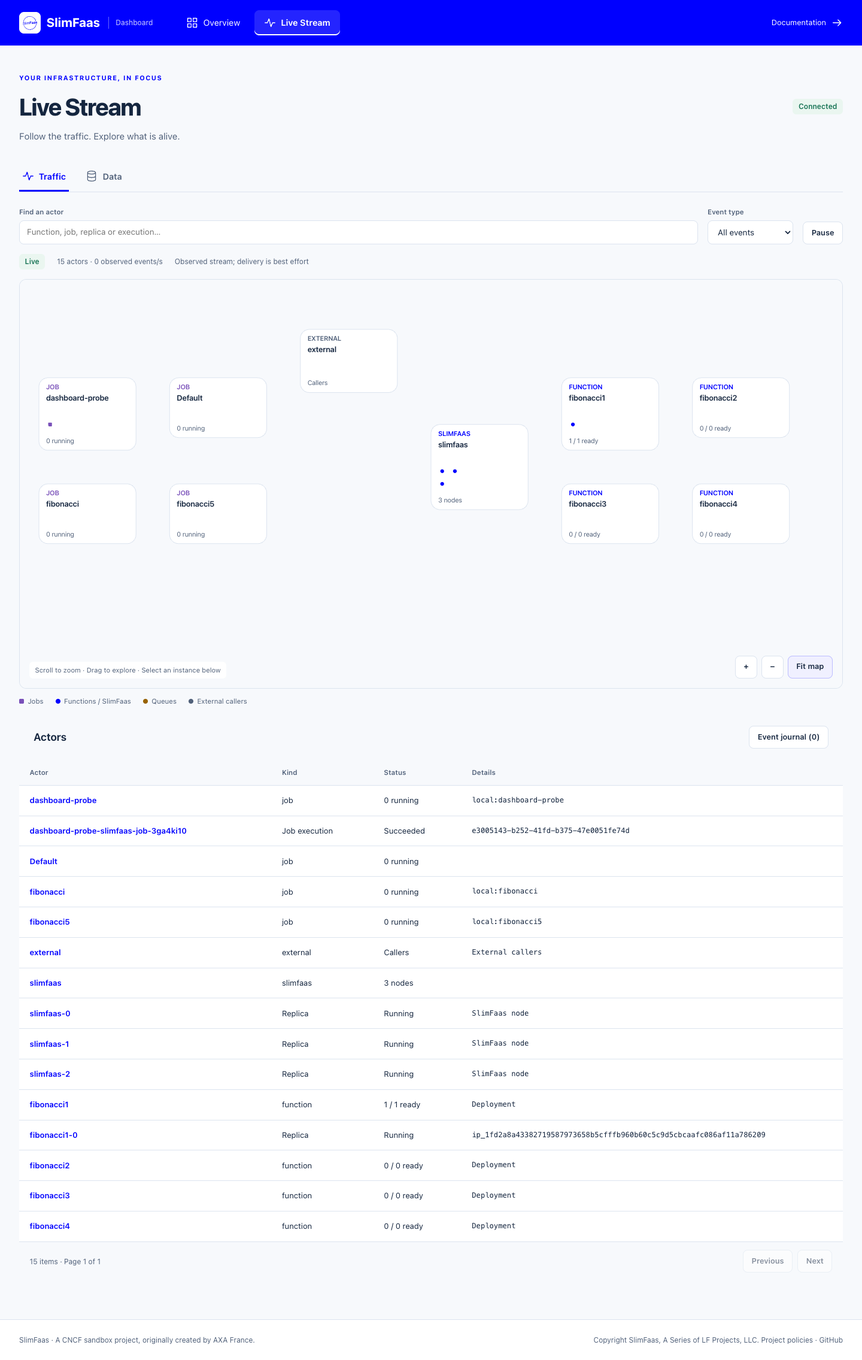
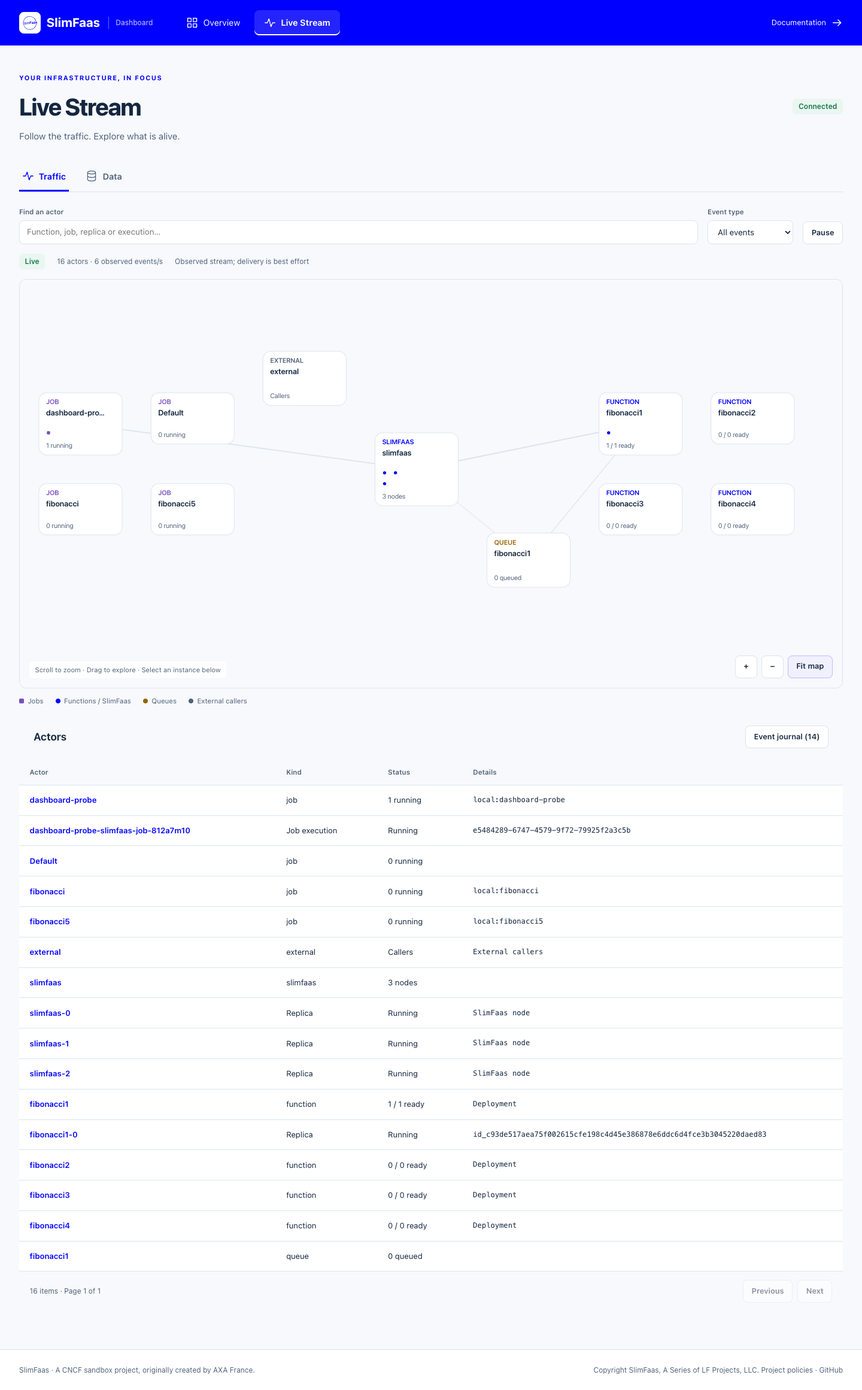
fix: expose opaque replica Identity instead of Ip in the dashboard stream

diff --git a/src/SlimFaas/ClientApp/src/stories/NetworkMap.stories.tsx b/src/SlimFaas/ClientApp/src/stories/NetworkMap.stories.tsx
@@ -1,4 +1,4 @@
-import { fixtureAddressId } from '../lib/fixtures';
+import { fixtureIdentity } from '../lib/fixtures';
 import type { Meta, StoryObj } from '@storybook/react';
 import React from 'react';
 import NetworkMap from '../components/NetworkMap';
@@ -15,8 +15,8 @@ const FUNCTIONS: FunctionStatusDetailed[] = [
     Resources: { CpuRequest: '10m', CpuLimit: '50m', MemoryRequest: '96Mi', MemoryLimit: '96Mi' },
     Schedule: null, Scale: null, Retry: null, SubscribeEvents: [], PathsStartWithVisibility: [],
     DependsOn: [], Pods: [
-      { Name: 'fib1-pod-0', Status: 'Running', Ready: true, Ip: fixtureAddressId(1) },
-      { Name: 'fib1-pod-1', Status: 'Running', Ready: true, Ip: fixtureAddressId(2) },
+      { Name: 'fib1-pod-0', Status: 'Running', Ready: true, Identity: fixtureIdentity(1) },
+      { Name: 'fib1-pod-1', Status: 'Running', Ready: true, Identity: fixtureIdentity(2) },
     ],
   },
   {
@@ -27,7 +27,7 @@ const FUNCTIONS: FunctionStatusDetailed[] = [
     Resources: { CpuRequest: '10m', CpuLimit: '50m', MemoryRequest: '96Mi', MemoryLimit: '96Mi' },
     Schedule: null, Scale: null, Retry: null, SubscribeEvents: [], PathsStartWithVisibility: [],
     DependsOn: ['fibonacci1'], Pods: [
-      { Name: 'fib2-pod-0', Status: 'Running', Ready: true, Ip: fixtureAddressId(3) },
+      { Name: 'fib2-pod-0', Status: 'Running', Ready: true, Identity: fixtureIdentity(3) },
     ],
   },
   {
@@ -46,7 +46,7 @@ const FUNCTIONS: FunctionStatusDetailed[] = [
     Resources: { CpuRequest: '300m', CpuLimit: '600m', MemoryRequest: '512Mi', MemoryLimit: '1Gi' },
     Schedule: null, Scale: null, Retry: null, SubscribeEvents: [], PathsStartWithVisibility: [],
     DependsOn: [], Pods: [
-      { Name: 'mysql-0', Status: 'Running', Ready: true, Ip: fixtureAddressId(5) },
+      { Name: 'mysql-0', Status: 'Running', Ready: true, Identity: fixtureIdentity(5) },
     ],
   },
   {
@@ -58,8 +58,8 @@ const FUNCTIONS: FunctionStatusDetailed[] = [
     SubscribeEvents: [{ Name: 'chat', Visibility: 'Public' }],
     PathsStartWithVisibility: [], DependsOn: [],
     Pods: [
-      { Name: 'ws-aaa', Status: 'Running', Ready: true, Ip: 'aaa' },
-      { Name: 'ws-bbb', Status: 'Running', Ready: true, Ip: 'bbb' },
+      { Name: 'ws-aaa', Status: 'Running', Ready: true, Identity: 'aaa' },
+      { Name: 'ws-bbb', Status: 'Running', Ready: true, Identity: 'bbb' },
     ],
   },
 ];
@@ -103,11 +103,11 @@ const JOBS: JobConfigurationStatus[] = [
 ];
 
 const ACTIVITY: NetworkActivityEvent[] = [
-  { Id: 'evt-1', Type: 'request_in', Source: 'external', Target: 'slimfaas', QueueName: null, TimestampMs: now - 5000, NodeId: 'slimfaas-0', SourcePod: fixtureAddressId(50), TargetPod: null },
-  { Id: 'evt-2', Type: 'enqueue', Source: 'slimfaas', Target: 'fibonacci1', QueueName: 'fibonacci1', TimestampMs: now - 4500, NodeId: 'slimfaas-0', SourcePod: fixtureAddressId(50), TargetPod: null },
-  { Id: 'evt-3', Type: 'dequeue', Source: 'slimfaas', Target: 'fibonacci1', QueueName: 'fibonacci1', TimestampMs: now - 3000, NodeId: 'slimfaas-1', SourcePod: null, TargetPod: fixtureAddressId(1) },
-  { Id: 'evt-4', Type: 'request_in', Source: 'external', Target: 'slimfaas', QueueName: null, TimestampMs: now - 2000, NodeId: 'slimfaas-1', SourcePod: fixtureAddressId(3), TargetPod: null },
-  { Id: 'evt-5', Type: 'request_out', Source: 'slimfaas', Target: 'fibonacci2', QueueName: null, TimestampMs: now - 1500, NodeId: 'slimfaas-0', SourcePod: null, TargetPod: fixtureAddressId(3) },
+  { Id: 'evt-1', Type: 'request_in', Source: 'external', Target: 'slimfaas', QueueName: null, TimestampMs: now - 5000, NodeId: 'slimfaas-0', SourcePod: fixtureIdentity(50), TargetPod: null },
+  { Id: 'evt-2', Type: 'enqueue', Source: 'slimfaas', Target: 'fibonacci1', QueueName: 'fibonacci1', TimestampMs: now - 4500, NodeId: 'slimfaas-0', SourcePod: fixtureIdentity(50), TargetPod: null },
+  { Id: 'evt-3', Type: 'dequeue', Source: 'slimfaas', Target: 'fibonacci1', QueueName: 'fibonacci1', TimestampMs: now - 3000, NodeId: 'slimfaas-1', SourcePod: null, TargetPod: fixtureIdentity(1) },
+  { Id: 'evt-4', Type: 'request_in', Source: 'external', Target: 'slimfaas', QueueName: null, TimestampMs: now - 2000, NodeId: 'slimfaas-1', SourcePod: fixtureIdentity(3), TargetPod: null },
+  { Id: 'evt-5', Type: 'request_out', Source: 'slimfaas', Target: 'fibonacci2', QueueName: null, TimestampMs: now - 1500, NodeId: 'slimfaas-0', SourcePod: null, TargetPod: fixtureIdentity(3) },
   { Id: 'evt-6', Type: 'event_publish', Source: 'slimfaas', Target: 'ws-handler', QueueName: null, TimestampMs: now - 500, NodeId: 'slimfaas-1', SourcePod: null, TargetPod: 'aaa' },
 ];
 
@@ -132,7 +132,7 @@ const JOB_TO_FUNCTION_ACTIVITY: NetworkActivityEvent[] = [
     TimestampMs: now + 150,
     NodeId: 'slimfaas-0',
     SourcePod: null,
-    TargetPod: fixtureAddressId(1),
+    TargetPod: fixtureIdentity(1),
   },
   {
     Id: 'job-call-b-in',
@@ -154,7 +154,7 @@ const JOB_TO_FUNCTION_ACTIVITY: NetworkActivityEvent[] = [
     TimestampMs: now + 450,
     NodeId: 'slimfaas-1',
     SourcePod: null,
-    TargetPod: fixtureAddressId(3),
+    TargetPod: fixtureIdentity(3),
   },
 ];
 
@@ -164,7 +164,7 @@ const NATIVE_LOCAL_FUNCTIONS: FunctionStatusDetailed[] = FUNCTIONS
     ...fn,
     NumberReady: 1,
     NumberRequested: 1,
-    Pods: (fn.Pods ?? []).slice(0, 1).map(pod => ({ ...pod, Ip: fixtureAddressId(127) })),
+    Pods: (fn.Pods ?? []).slice(0, 1).map(pod => ({ ...pod, Identity: fixtureIdentity(127) })),
   }));
 
 const NATIVE_LOCAL_EXTERNAL_ACTIVITY: NetworkActivityEvent[] = [
@@ -188,7 +188,7 @@ const NATIVE_LOCAL_EXTERNAL_ACTIVITY: NetworkActivityEvent[] = [
     TimestampMs: now + 150,
     NodeId: 'slimfaas-0',
     SourcePod: null,
-    TargetPod: fixtureAddressId(127),
+    TargetPod: fixtureIdentity(127),
   },
 ];
 
@@ -339,12 +339,12 @@ export const LiveAnimation: Story = {
           });
         }
 
-        // Opaque address IDs per function (from FUNCTIONS mock data)
-        const podAddressIds: Record<string, string[]> = {
-          fibonacci1: [fixtureAddressId(1), fixtureAddressId(2)],
-          fibonacci2: [fixtureAddressId(3)],
+        // Opaque identities per function (from FUNCTIONS mock data)
+        const podIdentities: Record<string, string[]> = {
+          fibonacci1: [fixtureIdentity(1), fixtureIdentity(2)],
+          fibonacci2: [fixtureIdentity(3)],
           kafka: [],
-          mysql: [fixtureAddressId(5)],
+          mysql: [fixtureIdentity(5)],
           'ws-handler': ['aaa', 'bbb'],
         };
 
@@ -356,9 +356,9 @@ export const LiveAnimation: Story = {
           QueueName: (type === 'enqueue' || type === 'dequeue') ? targetFn : null,
           TimestampMs: Date.now(),
           NodeId: counter % 2 === 0 ? 'slimfaas-0' : 'slimfaas-1',
-          SourcePod: type === 'request_in' ? (podAddressIds[fnNames[(counter + 1) % fnNames.length]]?.[0] ?? null) : null,
+          SourcePod: type === 'request_in' ? (podIdentities[fnNames[(counter + 1) % fnNames.length]]?.[0] ?? null) : null,
           TargetPod: (type === 'dequeue' || type === 'request_out' || type === 'event_publish')
-            ? (podAddressIds[targetFn]?.[counter % (podAddressIds[targetFn]?.length || 1)] ?? null)
+            ? (podIdentities[targetFn]?.[counter % (podIdentities[targetFn]?.length || 1)] ?? null)
             : null,
         }]);
 

diff --git a/src/SlimFaas/ClientApp/src/components/WorkloadDetails.tsx b/src/SlimFaas/ClientApp/src/components/WorkloadDetails.tsx
@@ -11,14 +11,14 @@ export default function WorkloadDetails({ workload, onClose }: { workload: Funct
   useEffect(() => { dialog.current?.showModal(); }, []);
   const isFunction = 'Pods' in workload;
   const instances = isFunction ? workload.Pods ?? [] : workload.RunningJobs;
-  const filtered = instances.filter(instance => `${instance.Name} ${'ElementId' in instance ? instance.ElementId : instance.Ip} ${instance.Status}`.toLowerCase().includes(search.toLowerCase()));
+  const filtered = instances.filter(instance => `${instance.Name} ${'ElementId' in instance ? instance.ElementId : instance.Identity} ${instance.Status}`.toLowerCase().includes(search.toLowerCase()));
   const paged = paginate(filtered, page);
   return <dialog ref={dialog} className="detail-panel" aria-labelledby="workload-title" onClose={onClose} onClick={event => { if (event.target === dialog.current) dialog.current?.close(); }}>
     <div className="detail-panel__header"><div><span className="detail-panel__eyebrow">{isFunction ? 'Function' : 'Job configuration'}</span><h2 className="detail-panel__title" id="workload-title">{workload.Name}</h2></div><button className="button button--quiet" type="button" aria-label="Close details" onClick={() => dialog.current?.close()}><Icon name="close" /></button></div>
     <div className="detail-panel__body">
       <h3 className="detail-panel__heading">{isFunction ? 'Replicas' : 'Executions'}</h3>
       <label className="field">Find an instance<input className="field__input" type="search" placeholder="Name, identity or status…" value={search} onChange={e => { setSearch(e.target.value); setPage(0); }} /></label>
-      <div className="table-wrap"><table className="table"><thead className="table__head"><tr><th className="table__th">Name</th><th className="table__th">Status</th><th className="table__th">{isFunction ? 'Address ID' : 'Element'}</th></tr></thead><tbody>{paged.items.map(instance => <tr key={instance.Name} className="table__row"><td className="table__td table__td--mono">{instance.Name}</td><td className="table__td">{instance.Status}</td><td className="table__td table__td--mono">{'Ip' in instance ? instance.Ip : instance.ElementId}</td></tr>)}</tbody></table></div>
+      <div className="table-wrap"><table className="table"><thead className="table__head"><tr><th className="table__th">Name</th><th className="table__th">Status</th><th className="table__th">{isFunction ? 'Identifier' : 'Element'}</th></tr></thead><tbody>{paged.items.map(instance => <tr key={instance.Name} className="table__row"><td className="table__td table__td--mono">{instance.Name}</td><td className="table__td">{instance.Status}</td><td className="table__td table__td--mono">{'Identity' in instance ? instance.Identity : instance.ElementId}</td></tr>)}</tbody></table></div>
       {instances.length === 0 && <p className="empty-state">No instances in the current snapshot.</p>}
       <Pagination total={filtered.length} page={paged.page} pages={paged.pages} onPage={setPage} />
       <h3 className="detail-panel__heading">Configuration</h3>

diff --git a/src/SlimFaas/ClientApp/src/lib/topology.ts b/src/SlimFaas/ClientApp/src/lib/topology.ts
@@ -12,8 +12,6 @@ export interface Topology {
 }
 const CELL = 34;
 const GAP = 90;
-const ipKey = (value: string) => value.replace(/^::ffff:/, '');
-const isLoopback = (value: string) => value === '::1' || value.startsWith('127.');
 export const nodeId = (kind: string, name: string) => `${kind}:${name}`;
 
 export function buildTopology(functions: FunctionStatusDetailed[], jobs: JobConfigurationStatus[], queues: QueueInfo[], slimNodes: SlimFaasNodeInfo[]): Topology {
@@ -44,10 +42,10 @@ export function buildTopology(functions: FunctionStatusDetailed[], jobs: JobConf
     const fnPods = [...(fn.Pods ?? [])].sort((a, b) => a.Name.localeCompare(b.Name));
     create('function', fn.Name, `${fn.NumberReady} / ${fn.NumberRequested} ready`, fnPods.map(p => {
       const id = nodeId('pod', `${fn.Name}/${p.Name}`);
-      pods.set(`${fn.Name}/${ipKey(p.Ip)}`, id); pods.set(`${fn.Name}/${p.Name}`, id);
+      pods.set(`${fn.Name}/${p.Identity}`, id); pods.set(`${fn.Name}/${p.Name}`, id);
       sourcePods.set(p.Name, id);
-      if (p.Ip && !isLoopback(ipKey(p.Ip))) sourcePods.set(ipKey(p.Ip), id);
-      return { id, label: p.Name, status: p.Ready ? 'Running' : p.Status, detail: p.Ip };
+      if (p.Identity) sourcePods.set(p.Identity, id);
+      return { id, label: p.Name, status: p.Ready ? 'Running' : p.Status, detail: p.Identity };
     }), fn.PodType);
   }
   for (const q of [...queues].sort((a, b) => a.Name.localeCompare(b.Name))) create('queue', q.Name, `${q.Length} queued`, []);
@@ -87,7 +85,7 @@ export function buildTopology(functions: FunctionStatusDetailed[], jobs: JobConf
 
 export function resolveSource(topology: Topology, actor: string, pod: string | null): string {
   if (pod) {
-    const resolved = topology.sourcePods.get(ipKey(pod));
+    const resolved = topology.sourcePods.get(pod);
     if (resolved) return resolved;
     const separator = pod.lastIndexOf('-slimfaas-job-');
     const jobId = nodeId('job', pod.slice(0, separator));
@@ -99,7 +97,7 @@ export function resolveSource(topology: Topology, actor: string, pod: string | n
 export function eventPath(topology: Topology, event: NetworkActivityEvent): string[] {
   const slim = topology.byId.has(nodeId('node', event.NodeId)) ? nodeId('node', event.NodeId) : 'slimfaas:slimfaas';
   const source = resolveSource(topology, event.Source, event.SourcePod);
-  const target = (event.TargetPod && topology.pods.get(`${event.Target}/${ipKey(event.TargetPod)}`)) || topology.actors.get(event.Target) || slim;
+  const target = (event.TargetPod && topology.pods.get(`${event.Target}/${event.TargetPod}`)) || topology.actors.get(event.Target) || slim;
   const queue = nodeId('queue', event.QueueName ?? event.Target);
   let path: string[];
   if (event.Type === 'request_in') path = [source, slim];

diff --git a/src/SlimFaas/ClientApp/src/lib/fixtures.ts b/src/SlimFaas/ClientApp/src/lib/fixtures.ts
@@ -1,7 +1,7 @@
 import type { FunctionStatusDetailed, JobConfigurationStatus, NetworkActivityEvent } from '../types.ts';
 
 // Synthetic opaque tokens for visual fixtures; production tokens are keyed on the server.
-export const fixtureAddressId = (index: number) => `ip_${index.toString(16).padStart(64, '0')}`;
+export const fixtureIdentity = (index: number) => `id_${index.toString(16).padStart(64, '0')}`;
 
 export function makeFixtures(replicas = 6, executions = 4) {
   const functions: FunctionStatusDetailed[] = [{
@@ -9,7 +9,7 @@ export function makeFixtures(replicas = 6, executions = 4) {
     ReplicasMin: 0, ReplicasAtStart: 1, TimeoutSecondBeforeSetReplicasMin: 10, NumberParallelRequest: 10000, NumberParallelRequestPerPod: 10,
     Resources: { CpuRequest: '100m', CpuLimit: '500m', MemoryRequest: '64Mi', MemoryLimit: '256Mi' },
     Schedule: null, Scale: null, Retry: null, SubscribeEvents: [], PathsStartWithVisibility: [], DependsOn: [],
-    Pods: Array.from({ length: replicas }, (_, i) => ({ Name: `fibonacci1-${String(i).padStart(5, '0')}`, Ip: fixtureAddressId(i + 1), Status: 'Running', Ready: true })),
+    Pods: Array.from({ length: replicas }, (_, i) => ({ Name: `fibonacci1-${String(i).padStart(5, '0')}`, Identity: fixtureIdentity(i + 1), Status: 'Running', Ready: true })),
   }];
   const jobs: JobConfigurationStatus[] = [{
     Name: 'daily-report', Image: 'ghcr.io/example/report:1.0', Visibility: 'Private', ImagesWhitelist: [], NumberParallelJob: 10000,

diff --git a/src/SlimFaas/ClientApp/src/stories/FunctionTable.stories.tsx b/src/SlimFaas/ClientApp/src/stories/FunctionTable.stories.tsx
@@ -1,5 +1,5 @@
 import type { Meta, StoryObj } from '@storybook/react';
-import { fixtureAddressId } from '../lib/fixtures';
+import { fixtureIdentity } from '../lib/fixtures';
 import FunctionTable from '../components/FunctionTable';
 import type { FunctionStatusDetailed } from '../types';
 
@@ -148,8 +148,8 @@ const FUNCTIONS_ALL_DOWN: FunctionStatusDetailed[] = [
     PathsStartWithVisibility: [],
     DependsOn: ['kafka'],
     Pods: [
-      { Name: 'ws-abc12345', Status: 'Running', Ready: true, Ip: 'abc12345' },
-      { Name: 'ws-def67890', Status: 'Running', Ready: true, Ip: 'def67890' },
+      { Name: 'ws-abc12345', Status: 'Running', Ready: true, Identity: 'abc12345' },
+      { Name: 'ws-def67890', Status: 'Running', Ready: true, Identity: 'def67890' },
     ],
   },
 ];
@@ -164,7 +164,7 @@ const FUNCTIONS_SOME_UP: FunctionStatusDetailed[] = FUNCTIONS_ALL_DOWN.map((fn, 
           Name: `${fn.Name}-pod-${j}`,
           Status: 'Running',
           Ready: true,
-          Ip: fixtureAddressId(j + 1),
+          Identity: fixtureIdentity(j + 1),
         })),
       }
     : fn
@@ -178,7 +178,7 @@ const FUNCTIONS_ALL_UP: FunctionStatusDetailed[] = FUNCTIONS_ALL_DOWN.map((fn) =
     Name: `${fn.Name}-pod-${j}`,
     Status: 'Running',
     Ready: true,
-    Ip: fixtureAddressId(j + 1),
+    Identity: fixtureIdentity(j + 1),
   })),
 }));
 

diff --git a/src/SlimFaas/ClientApp/src/hooks/useStatusStream.ts b/src/SlimFaas/ClientApp/src/hooks/useStatusStream.ts
@@ -105,7 +105,7 @@ function normalizeFunctions(raw: unknown): FunctionStatusDetailed[] {
         Name: asString(pick(pod, 'Name', 'name')),
         Status: asString(pick(pod, 'Status', 'status')),
         Ready: Boolean(pick(pod, 'Ready', 'ready')),
-        Ip: asString(pick(pod, 'Ip', 'ip')),
+        Identity: asString(pick(pod, 'Identity', 'identity')),
       })),
     };
   });

diff --git a/src/SlimFaas/ClientApp/src/types.ts b/src/SlimFaas/ClientApp/src/types.ts
@@ -2,7 +2,7 @@ export interface PodStatus {
   Name: string;
   Status: string;
   Ready: boolean;
-  Ip: string; // Legacy wire name: opaque server address token, never a literal IP.
+  Identity: string; // Opaque server identity used to correlate activity with this replica.
 }
 
 export interface ResourcesConfiguration {

diff --git a/tests/SlimFaas.Tests/Endpoints/StatusStreamPrivacyTests.cs b/tests/SlimFaas.Tests/Endpoints/StatusStreamPrivacyTests.cs
@@ -28,7 +28,7 @@ public class StatusStreamPrivacyTests
     {
         var original = Event(first, equivalent);
         var projected = StatusStreamPrivacy.ForBrowser(original);
-        Assert.Matches("^ip_[0-9a-f]{64}$", projected.SourcePod!);
+        Assert.Matches("^id_[0-9a-f]{64}$", projected.SourcePod!);
         Assert.Equal(projected.SourcePod, projected.TargetPod);
         Assert.Equal(projected, StatusStreamPrivacy.ForBrowser(original));
         Assert.False(IPAddress.TryParse(projected.SourcePod, out _));
@@ -53,7 +53,7 @@ public class StatusStreamPrivacyTests
     {
         var projected = StatusStreamPrivacy.ForBrowser(Event(address, address));
         Assert.Null(projected.SourcePod);
-        Assert.StartsWith("ip_", projected.TargetPod);
+        Assert.StartsWith("id_", projected.TargetPod);
     }
 
     [Theory]
@@ -140,15 +140,16 @@ public class StatusStreamPrivacyTests
         Assert.Contains(frames, f => f.Type == activityType);
         foreach (var frame in frames)
         {
+            Assert.DoesNotContain("\"Ip\":", frame.Json);
             Assert.DoesNotContain(ipv4, frame.Json);
             Assert.DoesNotContain(ipv6, frame.Json);
         }
         using var state = JsonDocument.Parse(frames[0].Json);
         var pods = state.RootElement.GetProperty("Functions")[0].GetProperty("Pods");
-        var v4Token = pods[0].GetProperty("Ip").GetString();
-        var v6Token = pods[1].GetProperty("Ip").GetString();
-        Assert.StartsWith("ip_", v4Token);
-        Assert.StartsWith("ip_", v6Token);
+        var v4Token = pods[0].GetProperty("Identity").GetString();
+        var v6Token = pods[1].GetProperty("Identity").GetString();
+        Assert.StartsWith("id_", v4Token);
+        Assert.StartsWith("id_", v6Token);
         var recent = state.RootElement.GetProperty("RecentActivity")[0];
         Assert.Equal(v4Token, recent.GetProperty("SourcePod").GetString());
         Assert.Equal(v6Token, recent.GetProperty("TargetPod").GetString());
@@ -167,7 +168,7 @@ public class StatusStreamPrivacyTests
 
         // Neither the deployment cache nor internal peer transport may be modified.
         Assert.Equal(ipv4, deployments.Functions[0].Pods[0].Ip);
-        Assert.Equal(ipv4, host.Services.GetRequiredService<FunctionStatusCache>().GetAllDetailed(replicas.Object)[0].Pods[0].Ip);
+        Assert.Equal(ipv4, host.Services.GetRequiredService<FunctionStatusCache>().GetAllDetailed(replicas.Object)[0].Pods[0].Identity);
         Assert.Equal(ipv4, tracker.GetRecent()[0].SourcePod);
         client.DefaultRequestHeaders.Add("X-Forwarded-For", "10.0.0.10");
         var internalJson = await client.GetStringAsync("http://localhost:5000/internal/activity-events", cts.Token);

diff --git a/src/SlimFaas/Endpoints/StatusStreamPrivacy.cs b/src/SlimFaas/Endpoints/StatusStreamPrivacy.cs
@@ -6,7 +6,7 @@ namespace SlimFaas.Endpoints;
 
 /// <summary>
 /// Projects network addresses at the public SSE boundary. Raw events and deployment
-/// snapshots remain available to routing and authenticated inter-node aggregation.
+/// snapshots remain available to routing and access-controlled inter-node aggregation.
 /// </summary>
 internal static class StatusStreamPrivacy
 {
@@ -17,7 +17,7 @@ internal static class StatusStreamPrivacy
 
     public static FunctionStatusDetailed ForBrowser(FunctionStatusDetailed function) => function with
     {
-        Pods = function.Pods.Select(pod => pod with { Ip = ProtectAddress(pod.Ip)! }).ToArray()
+        Pods = function.Pods.Select(pod => pod with { Identity = ProtectAddress(pod.Identity)! }).ToArray()
     };
 
     public static NetworkActivityEvent ForBrowser(NetworkActivityEvent activity) => activity with
@@ -37,6 +37,6 @@ internal static class StatusStreamPrivacy
         if (source && IPAddress.IsLoopback(address)) return null;
 
         // Canonical text also retains IPv6 scope IDs, unlike the address bytes alone.
-        return "ip_" + Convert.ToHexStringLower(HMACSHA256.HashData(Key, Encoding.UTF8.GetBytes(address.ToString())));
+        return "id_" + Convert.ToHexStringLower(HMACSHA256.HashData(Key, Encoding.UTF8.GetBytes(address.ToString())));
     }
 }

diff --git a/src/SlimFaas/FunctionStatus.cs b/src/SlimFaas/FunctionStatus.cs
@@ -22,7 +22,7 @@ public record PodStatus(
     string Name,
     string Status,
     bool Ready,
-    string Ip);
+    string Identity);
 
 public record FunctionStatusDetailed(
     string Name,

diff --git a/docs/user-interface.md b/docs/user-interface.md
@@ -63,11 +63,11 @@ This endpoint uses Server-Sent Events (SSE). It sends:
 - **`activity` events**: single live network activity events.
 - **`activity_batch` events**: grouped live network activity events during bursts.
 
-Replica and caller IP addresses are never sent in the stream's network address fields. Before serializing `state` (including `RecentActivity`), `activity` and `activity_batch`, the server replaces literal IPv4/IPv6 addresses with opaque `ip_…` tokens using HMAC-SHA-256 and a private random process key. Equivalent IPv4/mapped-IPv6 forms share a token. An unkeyed hash or public salt is not used because private address ranges can be enumerated.
+Replica and caller IP addresses are never sent in the stream's network address fields. Before serializing `state` (including `RecentActivity`), `activity` and `activity_batch`, the server replaces literal IPv4/IPv6 addresses with opaque `id_…` tokens using HMAC-SHA-256 and a private random process key. Equivalent IPv4/mapped-IPv6 forms share a token. An unkeyed hash or public salt is not used because private address ranges can be enumerated.
 
-For wire compatibility, `Functions[].Pods[].Ip` keeps its existing name and string type, but contains an **address ID**, not a routable address. `SourcePod` and `TargetPod` carry the matching token or an existing pod/job execution name. The dashboard searches names and address IDs and retains replica selection by name. Loopback caller identities are omitted to avoid attributing local tools to a function sharing the same address.
+`Functions[].Pods[].Identity` contains the opaque **identifier** shown by the dashboard. The former `Ip` field is no longer emitted. `SourcePod` and `TargetPod` carry the matching token or an existing pod/job execution name. The dashboard searches names and identifiers and retains replica selection by name. Loopback caller identities are omitted to avoid attributing local tools to a function sharing the same address.
 
-Tokens are consistent across subscribers and peer events served by one process; they change after a restart or when reconnecting to another node. Treat them as transient correlation identifiers, not persistent replica IDs. Raw addresses remain internal to routing and the access-controlled peer activity endpoint. No storage migration or client-side hashing is needed. Consumers that interpreted `Ip` as a network address must adapt to its opaque semantics.
+Tokens are consistent across subscribers and peer events served by one process; they change after a restart or when reconnecting to another node. Treat them as transient correlation identifiers, not persistent replica IDs. Raw addresses remain internal to routing and the access-controlled peer activity endpoint. No storage migration or client-side hashing is needed. Stream consumers must migrate from `Pods[].Ip` to `Pods[].Identity` and treat the value as opaque.
 
 The browser reconnects automatically if the stream disconnects.
 

diff --git a/docs/dashboard-validation.md b/docs/dashboard-validation.md
@@ -102,4 +102,6 @@ Kubernetes IP attribution is covered by endpoint/helper tests; no live Kubernete
 
 The browser workload above was repeated with full-length opaque address tokens after the privacy change. Fifteen new backend cases cover IPv4, mapped IPv6, IPv6 scope IDs, loopback callers, unchanged workload names and the actual SSE wire output. Initial/periodic state, history, individual activity and batches expose matching tokens; a second subscriber receives consistent tokens. Raw deployment caches and access-controlled inter-node activity retain their internal addresses.
 
-The native AOT demo and browser follow-up passed Fibonacci, signed job sync/async calls through a successfully completed job, address-ID search, replica selection and mobile layout. All 25 captured browser SSE frames omitted literal loopback addresses; there were no browser errors. Existing Node topology tests also cover opaque-token correlation and stable selection identities after token rotation. Dashboard, Storybook, documentation and native AOT builds passed again. The public field names remain compatible, but consumers must treat the legacy `Ip` field as an opaque transient identifier.
+The native AOT demo and browser follow-up passed Fibonacci, signed job sync/async calls through a successfully completed job, identifier search, replica selection and mobile layout. All 55 captured browser SSE frames omitted literal loopback addresses, the old `Ip` property and the `ip_` prefix; there were no browser errors. Existing Node topology tests also cover opaque-token correlation and stable selection identities after token rotation. Dashboard, Storybook, documentation and native AOT builds passed again. The public replica field is `Identity` (replacing `Ip`) and tokens use the generic `id_` prefix. SSE tests explicitly reject the old `Ip` JSON property; consumers must migrate to `Identity` and treat it as opaque.
+
+After renaming the wire field to `Identity`, a further 60-second production smoke run with the same 20,000-instance workload passed at 59.86 draws/s (p95 gap 17.6 ms), with post-GC heap 19.0 → 20.6 MB and no browser errors. Native publication, the complete .NET suite, dashboard/Storybook/site builds and browser integration checks were rerun for the renamed contract.
